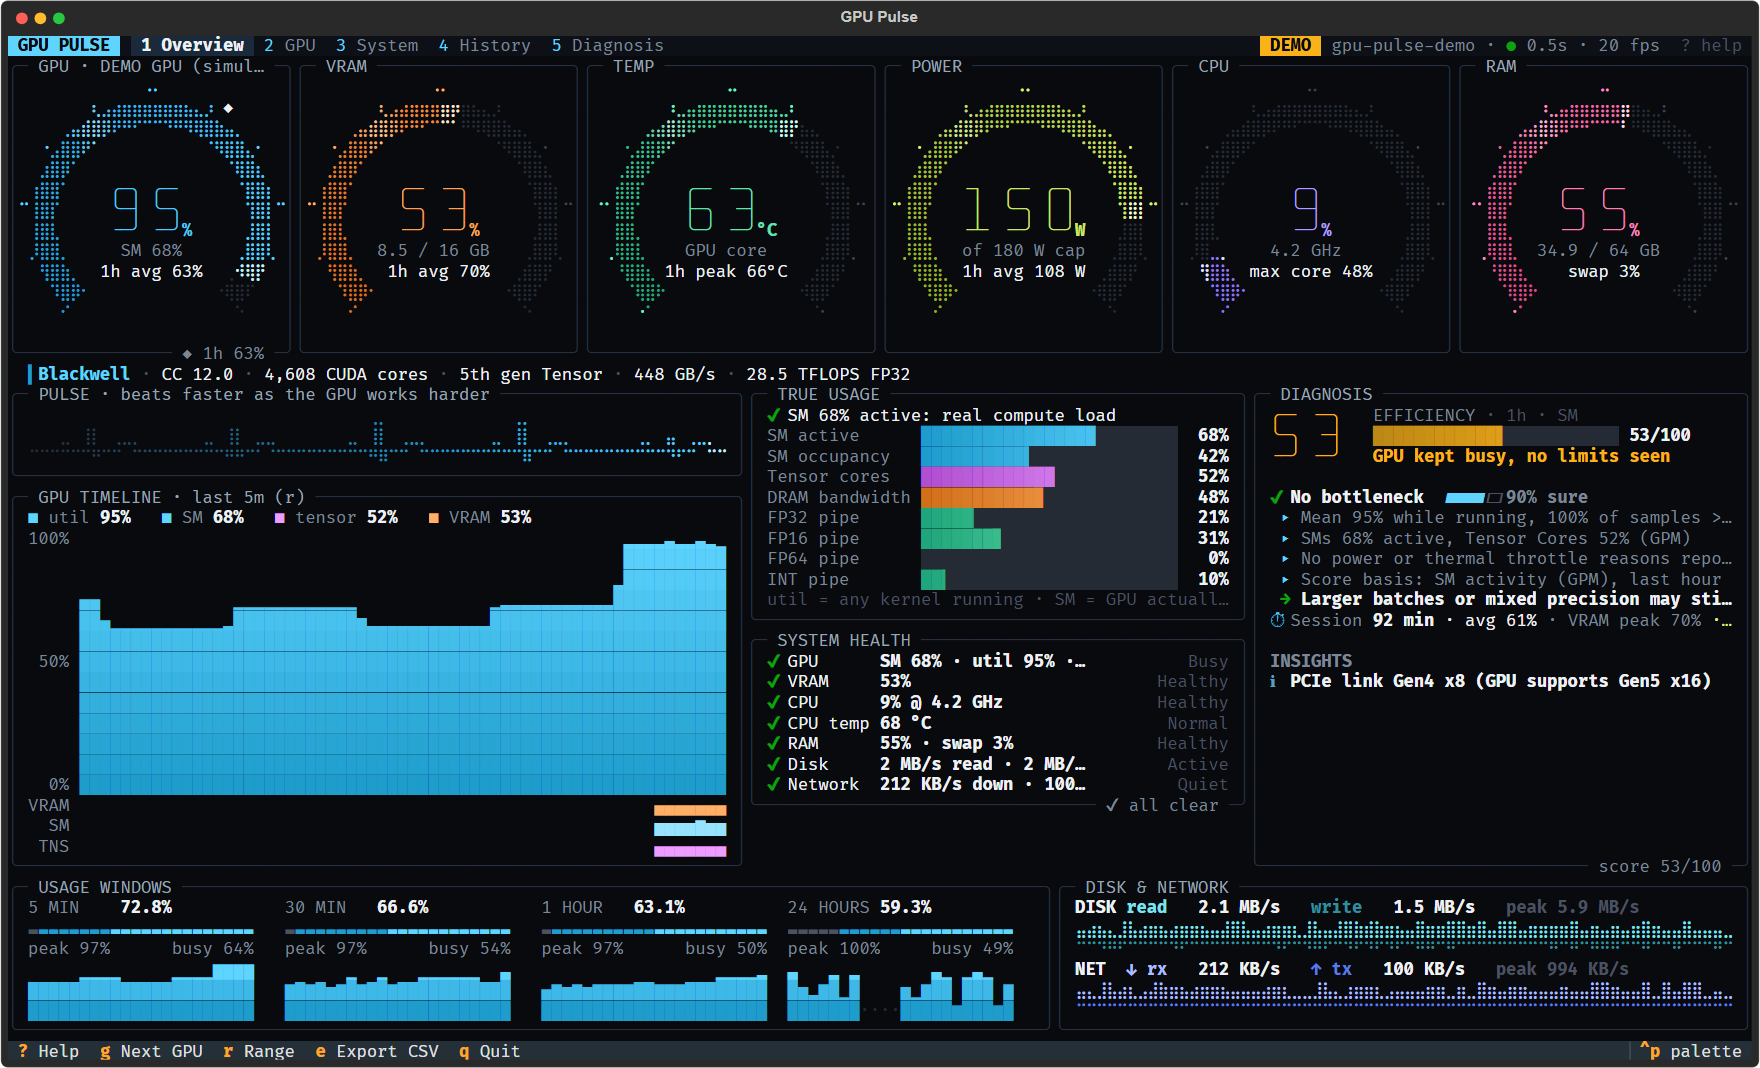
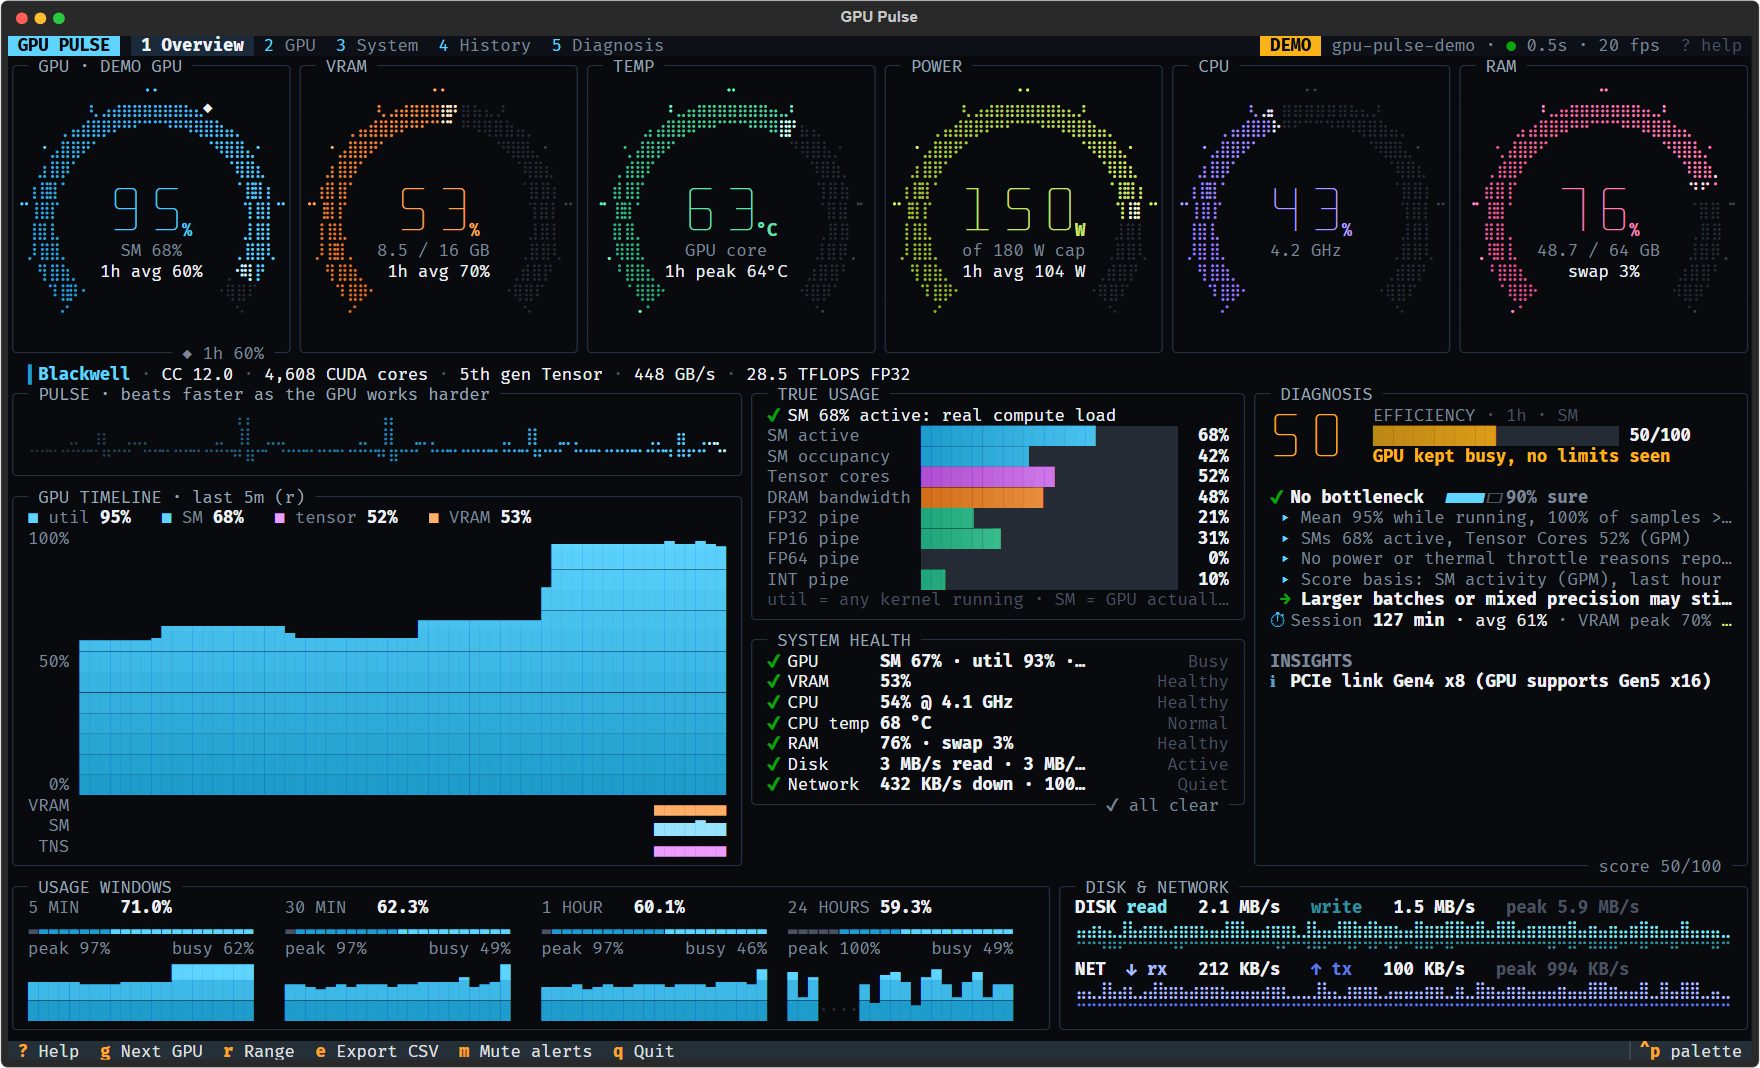
docs: refresh README screenshots for v0.3.0
- Re-captured all 10 README images from the current build: terminal Overview,
  GPU, History, Diagnosis (now with the alerts list), 4-GPU view (alert count
  in the header), ring animation; VS Code dashboard dark/light, 4-GPU and side
  bar (alert badge)
- Preview harness: `?alerts` shows example active alerts; fleet insight text
  matches the extension's "Last N recorded min" wording
- Captions mention alerts

diff --git a/scripts/preview-host.js b/scripts/preview-host.js
@@ -66,9 +66,9 @@
     ];
     if (multi) {
       insights.splice(1, 0, { level: 'warning', title: `GPU ${N - 1} well below the others`,
-        detail: `Last 10 min: GPU ${N - 1} 24% vs 81% mean on the other GPUs. If one job spans these GPUs (e.g. data-parallel training), this fits a straggler, an uneven data split, or a rank that is not using its GPU. If they run separate jobs, it is expected.` });
+        detail: `Last 10 recorded min: GPU ${N - 1} 24% vs 81% mean on the other GPUs. If one job spans these GPUs (e.g. data-parallel training), this fits a straggler, an uneven data split, or a rank that is not using its GPU. If they run separate jobs, it is expected.` });
       insights.push({ level: 'info', title: 'Uneven memory across GPUs',
-        detail: 'Last 10 min: GPU 0 averaged 91% VRAM, GPU ' + (N - 1) + ' 38%. In data-parallel jobs rank 0 often holds extra state (gathered outputs, logging); a large gap can also mean an unbalanced model split.' });
+        detail: 'Last 10 recorded min: GPU 0 averaged 91% VRAM, GPU ' + (N - 1) + ' 38%. In data-parallel jobs rank 0 often holds extra state (gathered outputs, logging); a large gap can also mean an unbalanced model split.' });
     }
     return {
       windows: [W('5 min', 5, 5, 84.2, 0.03, 0.82), W('30 min', 30, 30, 79.5, 0.07, 0.74), W('1 hour', 60, 60, 61.3, 0.27, 0.55), W('24 hours', 1440, 1080, 52.8, 0.31, 0.46)],
@@ -105,6 +105,15 @@
         board: 'HP 8D34', system: multi ? 'NVIDIA DGX A100' : 'HP OMEN 16L Gaming Desktop', disks: [{ name: 'SAMSUNG MZVL81T0HFLB', sizeBytes: 1024203640320, type: 'NVMe' }],
         gpus: Array.from({ length: N }, () => ({ name: NAME, vramMiB: TOTAL, driver: '591.74', vbios: '98.06.1f.00.f0', extra: ['NVIDIA', 'PCI'] })),
         cudaVersion: '13.1', remote: 'ssh-remote' },
+      // ?alerts: example active alerts (the badge in the header / side bar), consistent with the synthetic data.
+      alerts: q.has('alerts')
+        ? multi
+          ? [
+            { level: 'warning', title: 'GPU 1 running hot: 87 °C', detail: 'At or above your 80 °C threshold for 30 s.' },
+            { level: 'info', title: 'Job on GPU 0 finished after 47 min (avg 82%)', detail: 'Utilization stayed under 10% for 60 s.' },
+          ]
+          : [{ level: 'info', title: 'Job on GPU 0 finished after 47 min (avg 82%)', detail: 'Utilization stayed under 10% for 60 s.' }]
+        : [],
     });
   }
 

diff --git a/README.md b/README.md
@@ -51,7 +51,7 @@ Both read the same kind of data, apply the same insight rules, and record histor
 <table>
 <tr>
 <td width="50%"><img src="docs/images/terminal-overview.png" alt="Overview tab"><br><sub><b>Overview</b>: six live rings, pulse strip, timeline with SM and Tensor lines, true usage, health and diagnosis</sub></td>
-<td width="50%"><img src="docs/images/terminal-diagnosis.png" alt="Diagnosis tab"><br><sub><b>Diagnosis</b>: efficiency score, bottleneck with confidence, evidence, what to try, session energy</sub></td>
+<td width="50%"><img src="docs/images/terminal-diagnosis.png" alt="Diagnosis tab"><br><sub><b>Diagnosis</b>: efficiency score, bottleneck with confidence, evidence, what to try, session energy, and the <b>alerts</b> list (4-GPU demo)</sub></td>
 </tr>
 <tr>
 <td><img src="docs/images/terminal-gpu.png" alt="GPU tab"><br><sub><b>GPU</b>: architecture card, clocks, encoder/decoder, PCIe throughput, per-metric traces, processes</sub></td>
@@ -64,7 +64,7 @@ Both read the same kind of data, apply the same insight rules, and record histor
 ### Multiple GPUs
 
 <img src="docs/images/terminal-multigpu.png" alt="Terminal dashboard with four GPUs">
-<sub><code>gpu-pulse --demo --demo-gpus 4</code>: the ALL GPUS panel flags GPU 1 as a possible straggler (if the GPUs run one job), GPU 2 as thermal-throttling on its own, and GPU 3 on a narrower PCIe link with 92% VRAM.</sub>
+<sub><code>gpu-pulse --demo --demo-gpus 4</code>: the ALL GPUS panel flags GPU 1 as a possible straggler (if the GPUs run one job), GPU 2 as thermal-throttling on its own, and GPU 3 on a narrower PCIe link with 92% VRAM. The header shows the active alert count (GPU 2 running hot).</sub>
 
 ### VS Code extension
 
@@ -75,7 +75,7 @@ Both read the same kind of data, apply the same insight rules, and record histor
 </tr>
 <tr><td colspan="2"><sub>Follows your VS Code theme. Shows live gauges, a timeline with hover readouts, usage windows, a 24-hour heatmap, insights, CPU and memory, processes and machine specs.</sub></td></tr>
 <tr>
-<td width="70%"><img src="docs/images/vscode-multigpu.png" alt="VS Code dashboard with four GPUs"><br><sub><b>All GPUs</b> strip with selectable cards; insights compare the GPUs.</sub></td>
+<td width="70%"><img src="docs/images/vscode-multigpu.png" alt="VS Code dashboard with four GPUs"><br><sub><b>All GPUs</b> strip with selectable cards; insights compare the GPUs; the header badge shows active alerts.</sub></td>
 <td width="30%" valign="top"><img src="docs/images/vscode-sidebar.png" alt="Pinned side-bar view"><br><sub><b>Side bar</b>: pin it next to your editor or chat panel.</sub></td>
 </tr>
 </table>
